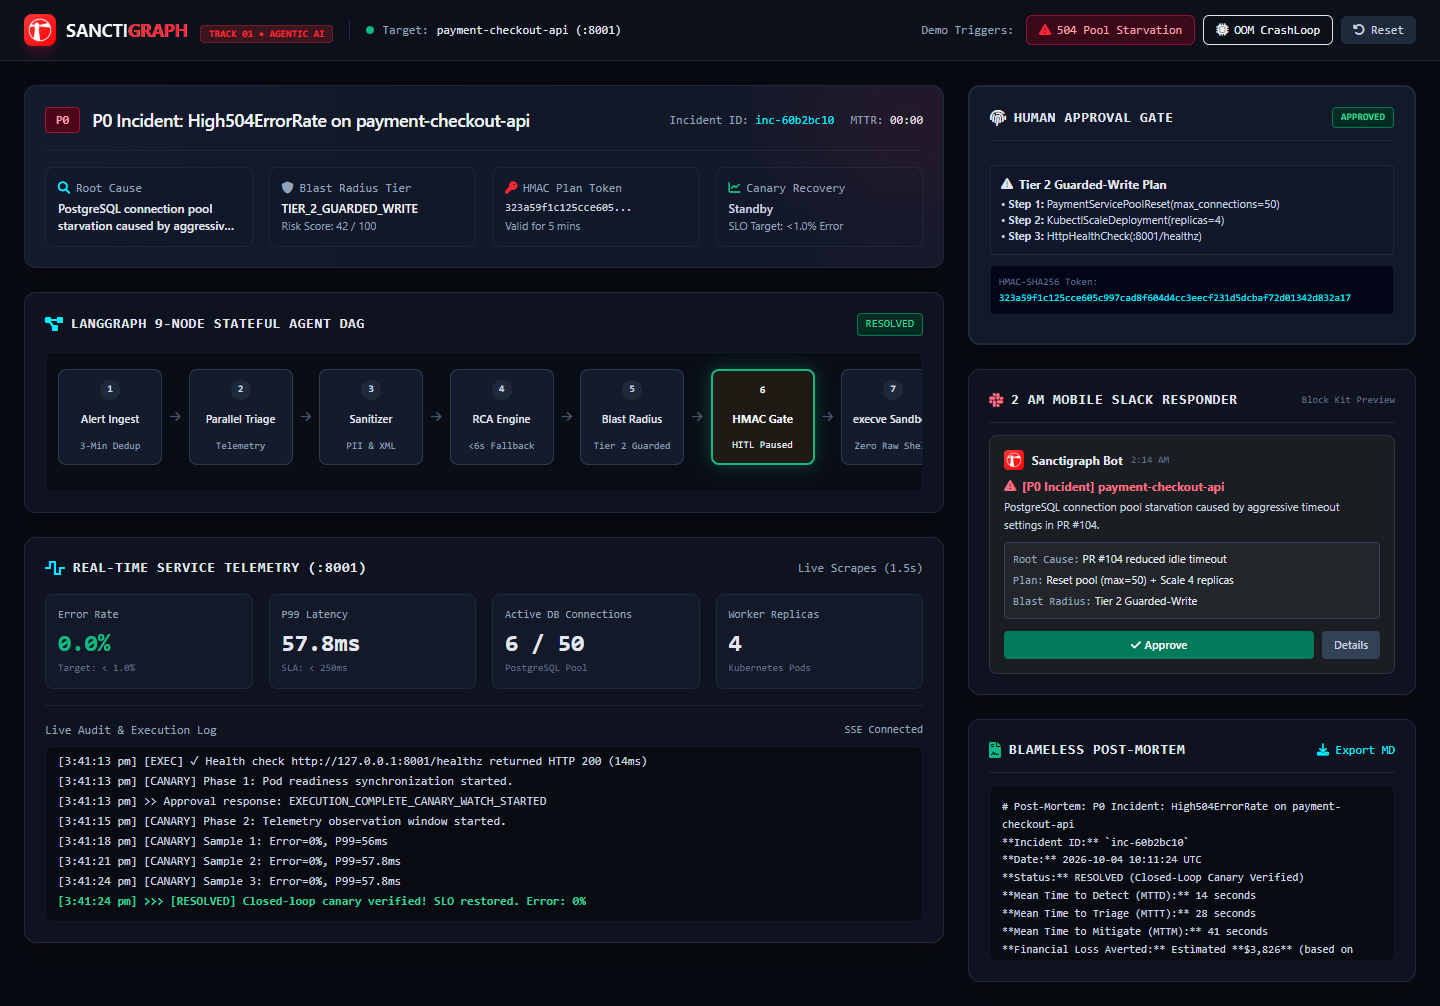
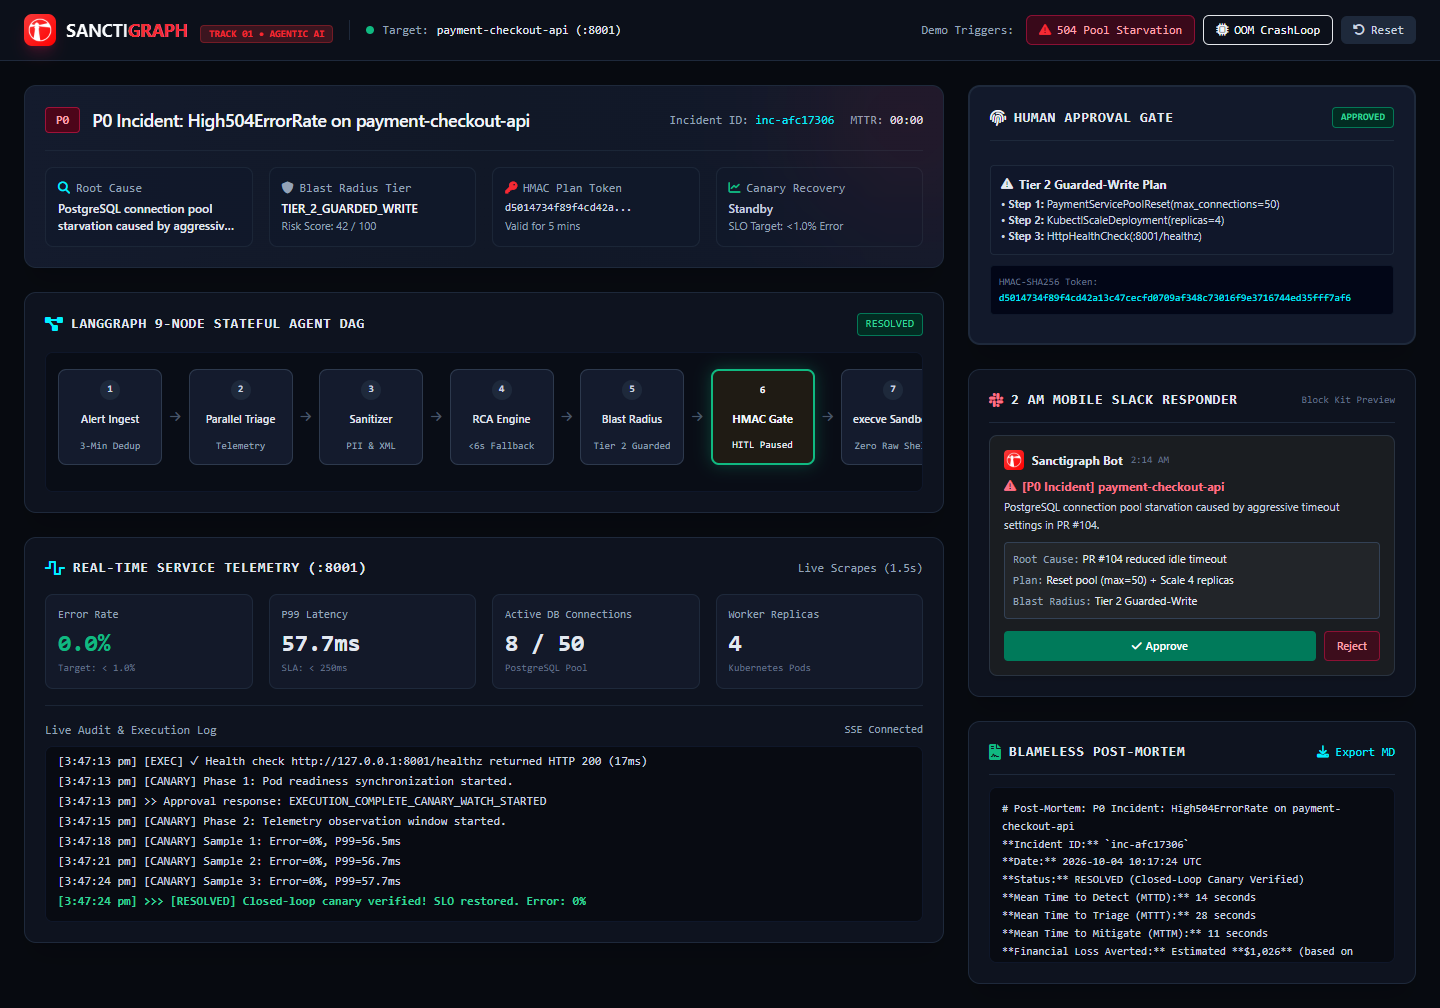
Implement Reject and Escalate workflow with HMAC token revocation and PagerDuty alert

diff --git a/services/orchestrator/static/index.html b/services/orchestrator/static/index.html
@@ -351,11 +351,11 @@
           </div>
 
           <div class="flex gap-2">
-            <button onclick="approveCurrentIncident()" class="flex-1 py-1.5 bg-[#007A5A] hover:bg-[#148567] text-white rounded font-medium text-[11px] flex items-center justify-center gap-1">
+            <button onclick="approveCurrentIncident()" class="flex-1 py-1.5 bg-[#007A5A] hover:bg-[#148567] text-white rounded font-medium text-[11px] flex items-center justify-center gap-1 transition">
               <i class="fa-solid fa-check"></i> Approve
             </button>
-            <button class="px-3 py-1.5 bg-slate-700 hover:bg-slate-600 text-slate-300 rounded font-medium text-[11px]">
-              Details
+            <button onclick="rejectCurrentIncident()" class="px-3 py-1.5 bg-rose-950/70 hover:bg-rose-900 text-rose-300 rounded font-medium text-[11px] border border-rose-800/80 transition">
+              Reject
             </button>
           </div>
         </div>
@@ -514,7 +514,9 @@
           highlightApprovalGate();
           renderApprovalModal({ hmac_token: currentHmacToken });
         }
-        if (data.status) {
+        if (data.status === 'ESCALATED') {
+          handleRejectionUI();
+        } else if (data.status) {
           document.getElementById('dag-status-pill').textContent = data.status;
         }
       } else if (type === 'NODE_STARTED') {
@@ -550,6 +552,9 @@
       } else if (type === 'APPROVAL_CONFIRMED') {
         logTerminal(`[AUTH] HMAC token signature cryptographically verified. Nonce burned.`);
         clearGateHighlight();
+      } else if (type === 'APPROVAL_REJECTED') {
+        logTerminal(`[ESCALATION] Remediation rejected: ${data.reason}. Dispatched to ${data.escalated_to}.`);
+        handleRejectionUI();
       } else if (type === 'STEP_STARTED') {
         logTerminal(`[EXEC] Executing Step: ${data.title}...`);
       } else if (type === 'STEP_COMPLETED') {
@@ -660,6 +665,46 @@
       }
     }
 
+    async function rejectCurrentIncident() {
+      if (!currentIncidentId) return;
+      logTerminal(`>> [HITL] Rejecting remediation plan and escalating to On-Call SRE...`);
+      try {
+        const resp = await fetch(`/api/incidents/${currentIncidentId}/reject`, {
+          method: 'POST',
+          headers: { 'Content-Type': 'application/json' },
+          body: JSON.stringify({ reason: 'Operator rejected remediation plan' })
+        });
+        const res = await resp.json();
+        logTerminal(`[ESCALATION] Remediation rejected. PagerDuty #PD-8492 dispatched to On-Call SRE.`);
+        handleRejectionUI();
+      } catch (err) {
+        logTerminal(`[ERROR] Rejection submission failed: ${err.message}`);
+      }
+    }
+
+    function handleRejectionUI() {
+      const gate = document.getElementById('node-gate');
+      if (gate) {
+        gate.classList.remove('node-glow-gate');
+        gate.classList.add('border-rose-500');
+      }
+      document.getElementById('dag-status-pill').textContent = 'ESCALATED';
+      document.getElementById('dag-status-pill').className = 'text-[11px] font-mono px-2 py-0.5 rounded bg-rose-950 text-rose-400 border border-rose-700 font-bold';
+      document.getElementById('approval-badge').textContent = 'REJECTED & ESCALATED';
+      document.getElementById('approval-badge').className = 'px-2 py-0.5 rounded text-[10px] font-mono font-bold bg-rose-950 text-rose-300 border border-rose-700';
+      document.getElementById('approval-actions').classList.add('hidden');
+
+      const container = document.getElementById('approval-content');
+      container.className = 'text-xs text-slate-200 flex-1 flex flex-col justify-center items-center text-center py-4 space-y-2';
+      container.innerHTML = `
+        <div class="w-10 h-10 rounded-full bg-rose-950/80 border border-rose-800 flex items-center justify-center text-rose-400 text-lg mb-1">
+          <i class="fa-solid fa-phone-volume"></i>
+        </div>
+        <p class="font-bold text-rose-300">Automated Remediation Aborted</p>
+        <p class="text-[11px] text-slate-400 max-w-xs">HMAC plan token revoked. Incident dispatched to Tier-3 On-Call SRE via PagerDuty (Incident #PD-8492).</p>
+      `;
+    }
+
     async function fetchPostMortem(incidentId) {
       try {
         const resp = await fetch(`/api/incidents/${incidentId}/postmortem`);
@@ -695,12 +740,14 @@
       document.getElementById('incident-severity-badge').className = 'px-2.5 py-1 rounded font-mono text-xs font-bold uppercase bg-slate-800 text-slate-400 border border-slate-700';
       document.getElementById('dag-status-pill').textContent = 'IDLE';
       document.getElementById('dag-status-pill').className = 'text-[11px] font-mono px-2 py-0.5 rounded bg-slate-800 text-slate-400 border border-slate-700';
+      document.getElementById('approval-badge').textContent = 'STANDBY';
+      document.getElementById('approval-badge').className = 'px-2 py-0.5 rounded text-[10px] font-mono font-bold bg-slate-800 text-slate-400';
       document.getElementById('exec-rca-summary').textContent = 'Waiting for incident trigger...';
       document.getElementById('exec-blast-tier').textContent = '--';
       document.getElementById('exec-blast-score').textContent = 'Risk Score: -- / 100';
       document.getElementById('exec-hmac-token').textContent = 'None';
       document.querySelectorAll('[id^="node-"]').forEach(el => {
-        el.className = el.className.replace(/node-glow-\w+/g, '');
+        el.className = el.className.replace(/node-glow-\w+/g, '').replace('border-rose-500', '');
       });
       document.getElementById('approval-actions').classList.add('hidden');
       document.getElementById('approval-content').className = 'text-xs text-slate-300 flex-1 flex flex-col justify-center items-center text-center py-6 text-slate-500';

diff --git a/test_browser_ui.py b/test_browser_ui.py
@@ -150,32 +150,49 @@ def run_full_browser_test():
         print(f"   [OK] Screenshot saved: {screenshot_2}")
 
         # ----------------------------------------------------
-        # TEST SCENARIO 2: Click OOM CrashLoop
+        # TEST SCENARIO 2: Reject & Escalate to On-Call SRE
         # ----------------------------------------------------
-        print("\n5. Testing SCENARIO 2: Clicking 'OOM CrashLoop' button in UI...")
+        print("\n5. Testing SCENARIO 2: Triggering Incident & Testing 'Reject & Escalate'...")
         oom_btn = page.locator('button:has-text("OOM CrashLoop")')
         oom_btn.click()
         print("   [OK] OOM button clicked! Waiting for triage pipeline...")
 
-        page.wait_for_selector('#approval-actions button:has-text("APPROVE REMEDIATION")', timeout=10000)
-        oom_title = page.locator("#incident-title").inner_text()
-        print(f"   [OK] Second Incident Title: '{oom_title}'")
+        page.wait_for_selector('#approval-actions button:has-text("Reject & Escalate")', timeout=10000)
+        reject_btn = page.locator('#approval-actions button:has-text("Reject & Escalate")')
+        assert reject_btn.is_visible(), "Reject button not visible"
+        print("   [OK] Reject & Escalate button visible. Clicking...")
+        reject_btn.click()
 
-        # Approve second incident
-        approve_btn2 = page.locator('#approval-actions button:has-text("APPROVE REMEDIATION")')
-        approve_btn2.click()
-        print("   [OK] Second incident approved. Waiting for resolution...")
+        # Wait for Escalation badge and DAG status
+        page.wait_for_selector('#approval-badge:has-text("REJECTED & ESCALATED")', timeout=5000)
+        page.wait_for_selector('#dag-status-pill:has-text("ESCALATED")', timeout=5000)
+        print("   [OK] Approval badge marked: 'REJECTED & ESCALATED'!")
+        print("   [OK] DAG status marked: 'ESCALATED'!")
 
-        page.wait_for_selector('#dag-status-pill:has-text("RESOLVED")', timeout=30000)
-        print("   [OK] Second incident RESOLVED successfully!")
+        # Verify escalation content
+        approval_content = page.locator("#approval-content").inner_text()
+        assert "Automated Remediation Aborted" in approval_content, "Missing abort banner"
+        assert "PagerDuty" in approval_content, "Missing PagerDuty escalation detail"
+        print(f"   [OK] Escalation banner verified: '{approval_content[:60]}...'")
 
-        # Take screenshot of final UI state
-        screenshot_3 = "test_artifacts/03_final_cockpit.png"
+        # Take screenshot of Rejected & Escalated state
+        screenshot_3 = "test_artifacts/03_rejected_escalated.png"
         page.screenshot(path=screenshot_3, full_page=True)
         print(f"   [OK] Screenshot saved: {screenshot_3}")
 
+        # ----------------------------------------------------
+        # TEST RESET & NOMINAL RECOVERY
+        # ----------------------------------------------------
+        print("\n6. Testing UI Reset...")
+        reset_btn = page.locator('button:has-text("Reset")')
+        reset_btn.click()
+        page.wait_for_timeout(1000)
+        reset_badge = page.locator("#incident-severity-badge").inner_text()
+        print(f"   [OK] Severity after Reset: {reset_badge}")
+        assert "NO ACTIVE INCIDENT" in reset_badge, "UI not reset properly"
+
         # Check for any unhandled JS errors
-        print("\n6. Checking Browser Console & Runtime Errors...")
+        print("\n7. Checking Browser Console & Runtime Errors...")
         if page_errors:
             print(f"   [WARNING] Detected JS errors: {page_errors}")
         else:

diff --git a/services/orchestrator/graph/engine.py b/services/orchestrator/graph/engine.py
@@ -215,6 +215,41 @@ class SanctigraphEngine:
         asyncio.create_task(self.run_canary_verification(incident_id))
         return {"success": True, "status": "EXECUTION_COMPLETE_CANARY_WATCH_STARTED"}
 
+    async def reject_and_escalate(self, incident_id: str, reason: str = "Operator rejected plan") -> Dict[str, Any]:
+        """
+        Human-in-the-Loop Rejection:
+        Aborts automated execution, revokes the HMAC token, and escalates to on-call SRE.
+        """
+        if incident_id not in self.incidents:
+            raise ValueError("Incident not found")
+
+        record = self.incidents[incident_id]
+        if record.status != "AWAITING_APPROVAL":
+            raise ValueError(f"Incident is not in AWAITING_APPROVAL status (current: {record.status})")
+
+        token = record.approval_token
+        if token:
+            token.redeemed = True  # Revoke single-use HMAC token
+
+        record.status = "ESCALATED"
+        await self.emit_event(
+            incident_id,
+            "APPROVAL_REJECTED",
+            {
+                "incident_id": incident_id,
+                "reason": reason,
+                "escalated_to": "Tier-3 On-Call SRE (PagerDuty #PD-8492)",
+                "plan_revoked": True,
+            },
+        )
+        return {
+            "success": True,
+            "status": "ESCALATED",
+            "incident_id": incident_id,
+            "escalated_to": "Tier-3 On-Call SRE (PagerDuty #PD-8492)",
+            "message": "Automated remediation aborted. PagerDuty incident triggered for manual intervention.",
+        }
+
     # ==========================================
     # NODE 9: ADAPTIVE 2-PHASE CANARY VERIFICATION
     # ==========================================

diff --git a/services/orchestrator/api/main.py b/services/orchestrator/api/main.py
@@ -36,6 +36,10 @@ class ApproveRequest(BaseModel):
     signature: str
 
 
+class RejectRequest(BaseModel):
+    reason: Optional[str] = "Operator rejected remediation plan"
+
+
 STATIC_DIR = Path(__file__).resolve().parent.parent / "static"
 STATIC_INDEX = STATIC_DIR / "index.html"
 app.mount("/static", StaticFiles(directory=STATIC_DIR), name="static")
@@ -84,6 +88,16 @@ async def incident_webhook(alert: AlertPayload):
 async def approve_incident(incident_id: str, req: ApproveRequest):
     try:
         res = await engine.approve_and_execute(incident_id, req.signature)
+        return res
+    except ValueError as e:
+        raise HTTPException(status_code=400, detail=str(e))
+
+
+@app.post("/api/incidents/{incident_id}/reject")
+async def reject_incident(incident_id: str, req: Optional[RejectRequest] = None):
+    try:
+        reason = req.reason if req and req.reason else "Operator rejected remediation plan"
+        res = await engine.reject_and_escalate(incident_id, reason)
         return res
     except ValueError as e:
         raise HTTPException(status_code=400, detail=str(e))
